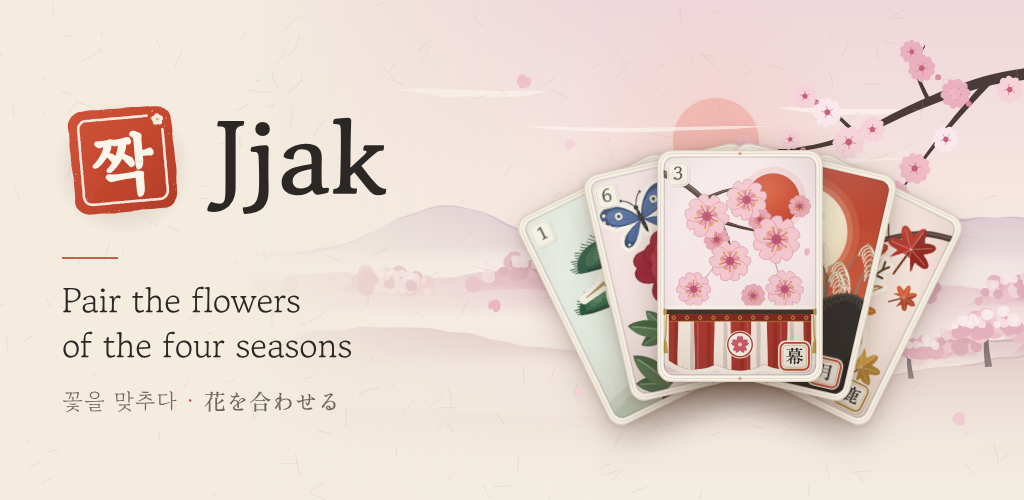
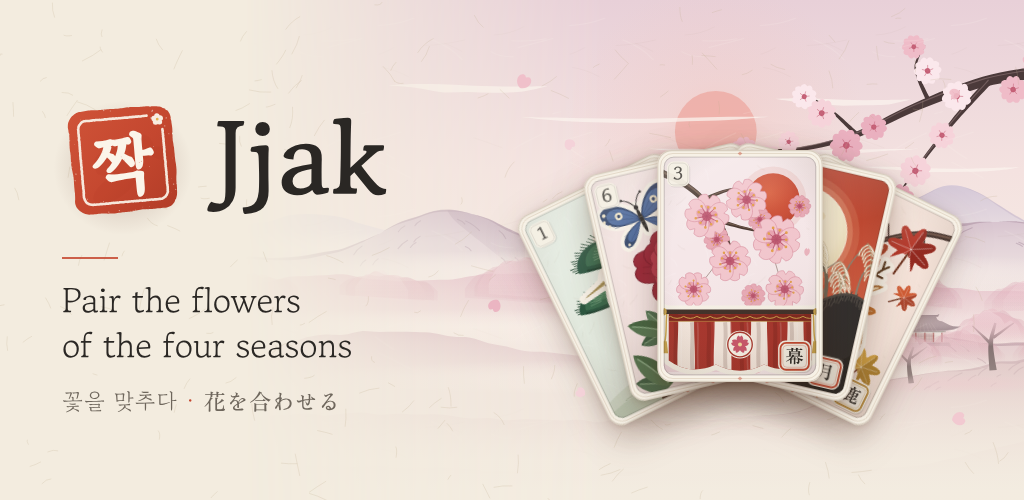
Store: feature graphic on the new spring scene; demo build inlines the app entry and its worker
The single-file demo picked the first .js asset, which became the endless-road
worker once it existed, and rendered a blank page. It now inlines the entry
index.html loads, ships each worker as a blob URL (the road falls back to the
main thread if a host refuses blob workers), and declares UTF-8.

The feature page hides the scene's dark-theme veil, which it showed because the
page doesn't load the app stylesheet.

Claude-Session: https://claude.ai/code/session_01HsMttNBmTR4DdiptiBSGpT

diff --git a/dev/feature.html b/dev/feature.html
@@ -6,6 +6,7 @@ html,body{margin:0}
 /* spring landscape from the Home screen, dissolving into paper toward the text */
 .scene{position:absolute;right:0;top:0;width:780px;height:500px;-webkit-mask-image:linear-gradient(to right,transparent 0,rgba(0,0,0,.55) 22%,#000 46%);mask-image:linear-gradient(to right,transparent 0,rgba(0,0,0,.55) 22%,#000 46%)}
 .scene svg{width:100%;height:100%;display:block}
+.scene .scene__veil{display:none}
 .scene::after{content:'';position:absolute;inset:auto 0 0;height:46%;background:linear-gradient(to bottom,rgba(243,236,223,0),rgba(243,236,223,.85))}
 .paper{position:absolute;inset:0;pointer-events:none}
 .left{position:absolute;left:62px;top:0;bottom:0;display:flex;flex-direction:column;justify-content:center;gap:16px;z-index:3}
